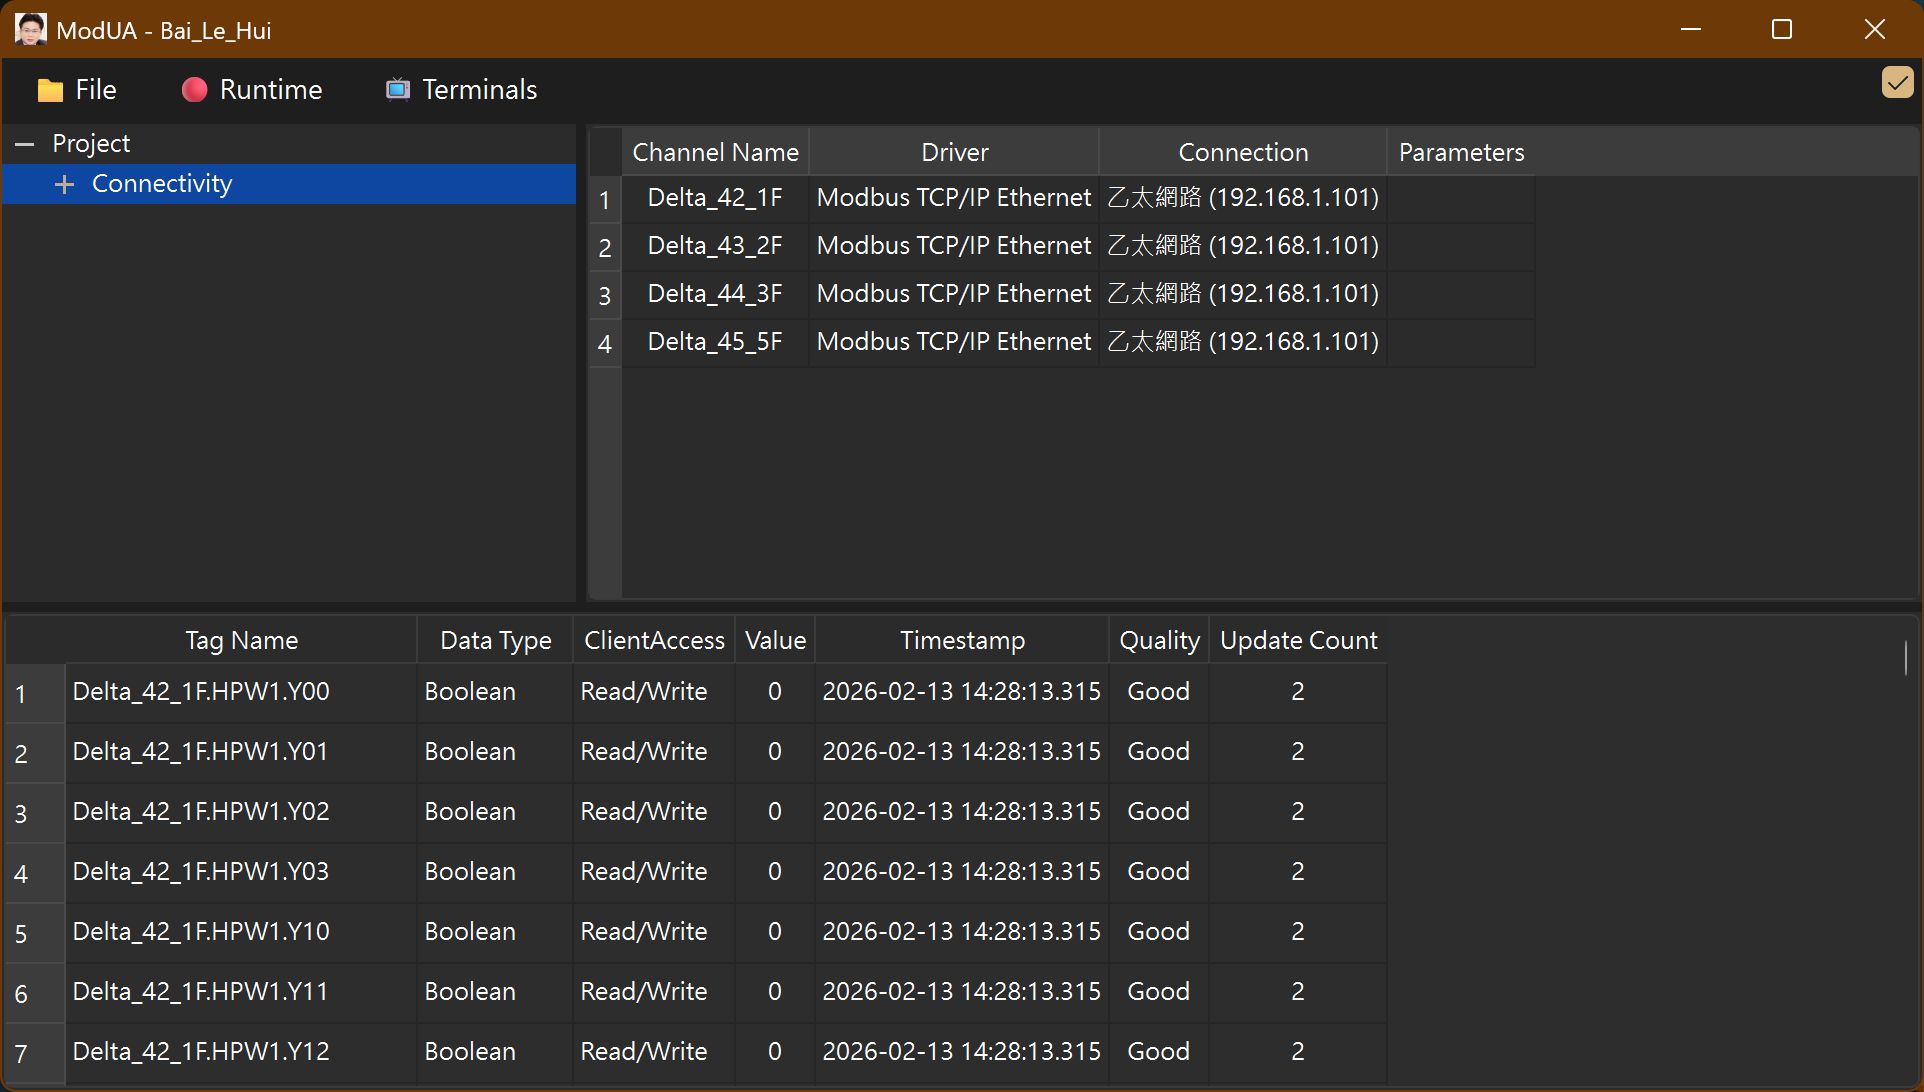
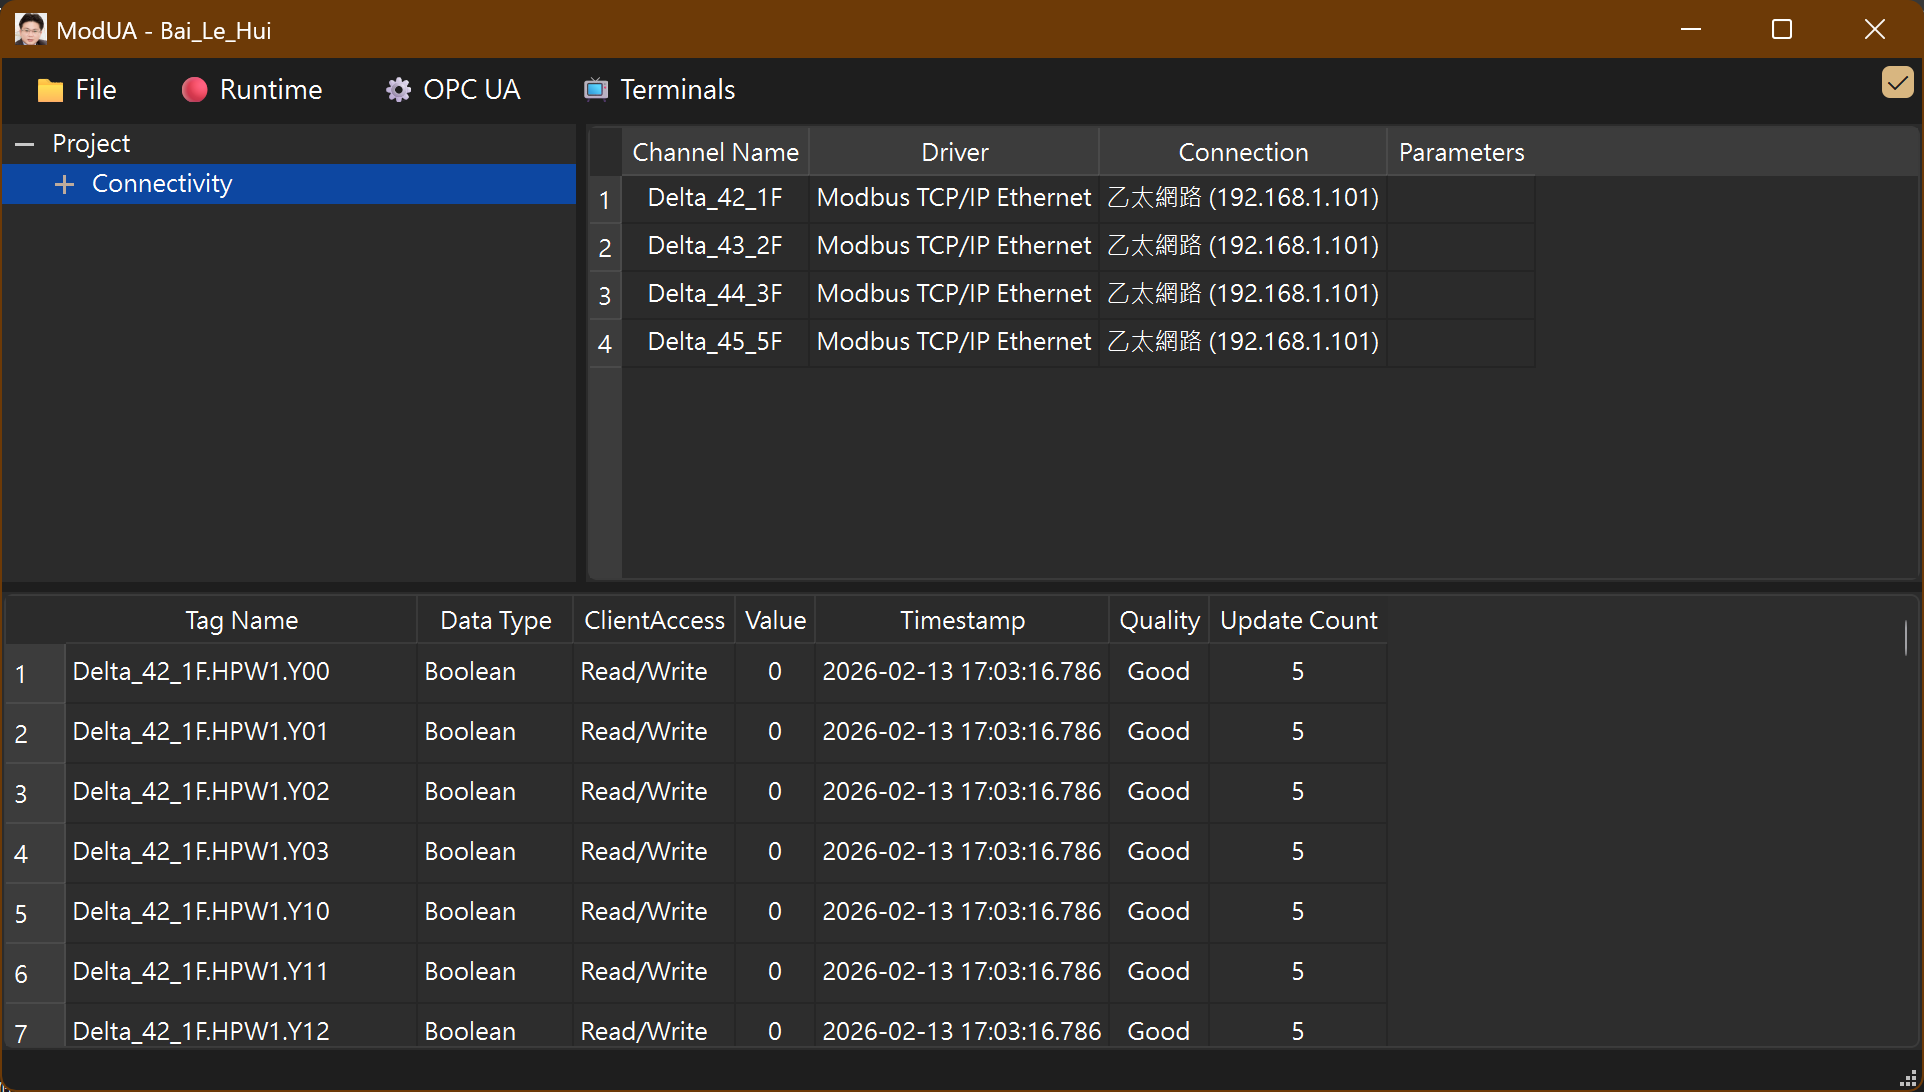
Update ModUA.py, opcua_server.py, and Main UI.png

diff --git a/ModUA.py b/ModUA.py
@@ -340,10 +340,16 @@ class IoTApp(QMainWindow):
         open_action.triggered.connect(self.open_project)
         save_action.triggered.connect(self.save_project)
         save_as_action.triggered.connect(self.save_project_as)
+        
         runtime_indicator = QAction("🟢 Runtime", self)
         runtime_indicator.triggered.connect(self.toggle_runtime)
         self.menuBar().addAction(runtime_indicator)
         self.runtime_indicator_action = runtime_indicator
+        
+        # OPC UA 設定選項：放在 Runtime 和 Terminals 之間
+        opcua_config_action = QAction("⚙ OPC UA", self)
+        opcua_config_action.triggered.connect(self.open_opcua_settings)
+        self.menuBar().addAction(opcua_config_action)
         
         # 在選單欄右側添加自動啟動runtime的核取方塊
         self.auto_start_runtime_checkbox = QCheckBox()
@@ -1045,35 +1051,75 @@ class IoTApp(QMainWindow):
                 try:
                     # Check if the port is really available before starting
                     port = int(flat.get("port", nested.get("opcua_settings", {}).get("general", {}).get("port", 4848)))
+                    opc_logger.info(f"[OPC_STARTUP] Checking if port {port} is available...")
                     if not IoTApp.is_port_really_available(port):
                         error_msg = f"Port {port} is blocked by system or reserved, cannot start OPC UA server. Please choose a different port."
                         opc_logger.error(error_msg)
                         self.opc_error_occurred.emit("OPC UA 啟動失敗", error_msg)
                         return
 
-                    opc_logger.info("Starting OPC UA server...")
+                    opc_logger.info(f"[OPC_STARTUP] Port {port} is available, starting OPC UA server...")
+                    import time as time_module
+                    start_time = time_module.time()
                     self.opc_server.start_server()
+                    opc_logger.info("[OPC_STARTUP] Server start_server() called, waiting for is_running flag...")
 
                     # Wait for server to be ready
-                    # Increased timeout for Windows port release
-                    max_wait = 5
+                    # ✅ ASYNC CERTIFICATE GENERATION: Runs in thread pool, doesn't block event loop
+                    # Most cases should complete in 2-5 seconds:
+                    # - Cached certificate: < 1s
+                    # - First-run cert generation: ~15-20s in thread pool (doesn't freeze UI/event loop)
+                    # - server.init(): ~1-2s
+                    # - server.start(): ~0.5-1s
+                    # Timeout set to 10s for stability (vs 20s before, still much better)
+                    max_wait = 10
                     waited = 0
                     poll_interval = 0.1
+                    check_count = 0
 
                     while not self.opc_server.is_running and waited < max_wait:
                         time.sleep(poll_interval)
                         waited += poll_interval
+                        check_count += 1
+                        
+                        # Log every 1 second
+                        if check_count % 10 == 0:
+                            # Check server thread status
+                            thread_alive = self.opc_server.server_thread and self.opc_server.server_thread.is_alive()
+                            opc_logger.debug(f"[OPC_STARTUP] Waiting... {waited:.1f}s, is_running={self.opc_server.is_running}, thread_alive={thread_alive}")
 
                     if not self.opc_server.is_running:
-                        error_msg = (
-                            f"OPC UA server initialization timeout (waited {waited}s)"
-                        )
-                        opc_logger.error(error_msg)
-                        # 发射信号通知 UI 线程显示错误
-                        self.opc_error_occurred.emit("OPC UA 啟動失敗", error_msg)
+                        # ✅ Check if there's a stored server error
+                        server_error = getattr(self.opc_server, '_server_error', None)
+                        thread_alive = self.opc_server.server_thread and self.opc_server.server_thread.is_alive()
+                        
+                        if server_error:
+                            # There's a specific error from the server thread
+                            error_msg = f"OPC UA server initialization failed: {server_error}"
+                            opc_logger.error(error_msg)
+                            self.opc_error_occurred.emit("OPC UA 啟動失敗", error_msg)
+                        elif not thread_alive:
+                            # Thread died without is_running being set
+                            error_msg = (
+                                f"OPC UA server thread died unexpectedly (waited {waited:.1f}s). "
+                                f"Check the log for exceptions during initialization."
+                            )
+                            opc_logger.error(error_msg)
+                            self.opc_error_occurred.emit("OPC UA 啟動失敗", error_msg)
+                        else:
+                            # Thread is still alive but hasn't set is_running yet
+                            error_msg = (
+                                f"OPC UA server initialization timeout (waited {waited:.1f}s). "
+                                f"Server thread is still running but not responding. "
+                                f"This could indicate a deadlock or very slow initialization. "
+                                f"Check the log for diagnostic messages."
+                            )
+                            opc_logger.error(error_msg)
+                            self.opc_error_occurred.emit("OPC UA 啟動失敗", error_msg)
                         return
 
-                    opc_logger.info("OPC UA server is running, loading tags...")
+                    elapsed_time = time_module.time() - start_time
+                    opc_logger.info(f"[OPC_STARTUP] ✓ OPC UA server is running! (took {elapsed_time:.2f}s), loading tags...")
 
                     # Server is ready, load tags
                     if self.opc_server:
@@ -1084,6 +1130,11 @@ class IoTApp(QMainWindow):
                             self.update_status_message.emit(
                                 "OPC UA Server 已啟動並重新加載標籤", 3000
                             )
+                            
+                            # ✅ 檢查是否需要自動啟動 Runtime（在 OPC UA 完成初始化後）
+                            if getattr(self, '_auto_start_runtime_on_startup', False):
+                                logging.info("Auto-starting Runtime now that OPC UA is ready...")
+                                QTimer.singleShot(500, self.start_runtime_polling)  # 短延遲確保 UI 響應
                             
                             # ✅ 如果 Runtime 已經在運行，啟動 OPC 同步 timer
                             if getattr(self, "_runtime_running", False):
@@ -5253,6 +5304,7 @@ class IoTApp(QMainWindow):
     def load_app_settings(self):
         """加載應用程序設置"""
         try:
+            auto_start = False
             if os.path.exists(self._settings_file):
                 with open(self._settings_file, 'r', encoding='utf-8') as f:
                     settings = json.load(f)
@@ -5284,12 +5336,14 @@ class IoTApp(QMainWindow):
                 if args.minimized:
                     QTimer.singleShot(500, lambda: self.setWindowState(Qt.WindowState.WindowMinimized))
             
-            # 如果設置了自動啟動且沒有運行，則啟動runtime
-            if auto_start and not getattr(self, '_runtime_running', False):
-                QTimer.singleShot(1000, self.start_runtime_polling)  # 延遲1秒啟動
-                
+            # ✅ 保存自動啟動狀態，讓 OPC UA 初始化完成後使用
+            self._auto_start_runtime_on_startup = auto_start and not getattr(self, '_runtime_running', False)
+            
         except Exception as e:
             logging.warning(f"Failed to load app settings: {e}")
+            # 降級：直接啟動 Runtime（不等待 OPC UA）
+            logging.warning("Falling back to direct Runtime start...")
+            self.start_runtime_polling()
 
     def save_app_settings(self):
         """保存應用程序設置"""

diff --git a/core/OPC_UA/opcua_server.py b/core/OPC_UA/opcua_server.py
@@ -789,6 +789,38 @@ class OPCUAServer:
 
         return cert_path, key_path
 
+    async def _generate_server_certificate_async(self, app_name: str, host: str, port: int) -> tuple:
+        """🔄 Async wrapper for certificate generation - offloads CPU-intensive work to thread pool.
+        
+        CRITICAL: RSA key generation is CPU-intensive and would block the event loop for 15-20 seconds!
+        This async wrapper uses loop.run_in_executor() to run the sync certificate generation in a
+        background thread pool, allowing the event loop to remain responsive.
+
+        Args:
+            app_name: Application name for the certificate
+            host: Server host/IP address
+            port: Server port
+
+        Returns:
+            Tuple of (cert_path, key_path) if successful, (None, None) otherwise
+        """
+        try:
+            import time as time_module
+            logger.debug(f"[OPC_STARTUP] Async cert generation starting in thread pool...")
+            start_time = time_module.time()
+            
+            loop = asyncio.get_event_loop()
+            cert_path, key_path = await loop.run_in_executor(
+                None, self._generate_server_certificate, app_name, host, port
+            )
+            
+            elapsed = time_module.time() - start_time
+            logger.debug(f"[OPC_STARTUP] Async cert generation completed in {elapsed:.2f}s")
+            return cert_path, key_path
+        except Exception as e:
+            logger.error(f"Async certificate generation failed: {e}", exc_info=True)
+            return None, None
+
     def _generate_server_certificate(self, app_name: str, host: str, port: int) -> tuple:
         """Generate a self-signed server certificate for OPC UA.
 
@@ -991,18 +1023,21 @@ class OPCUAServer:
             asyncio.set_event_loop(self.loop)
             self._stop_event = asyncio.Event()
 
-            # ✅ Run cleanup delay inside event loop (async sleep)
-            # This allows the event loop to remain responsive
+            # ✅ Run cleanup and server initialization inside event loop
+            # The sleep is for proper cleanup of any previous connections
             async def startup_with_cleanup():
-                logger.debug("Waiting for cleanup before starting server...")
-                await asyncio.sleep(2)  # ✅ Non-blocking sleep in event loop
+                import time as time_module
+                logger.debug("[OPC_STARTUP] Starting up OPC UA server with cleanup...")
+                await asyncio.sleep(0.5)  # ✅ Reduced from 2s to 0.5s - shorter cleanup window
+                logger.debug("[OPC_STARTUP] Cleanup complete, initializing server...")
                 await self._start_server_async(host, port)
                 # ✅ Update heartbeat after successful startup
                 self._last_heartbeat = time.time()
+                logger.debug("[OPC_STARTUP] Server startup coroutine completed")
 
             # Run the async server start with cleanup delay
             logger.info(
-                f"Starting OPC UA async server on {host}:{port} in event loop..."
+                f"[OPC_STARTUP] Starting OPC UA async server on {host}:{port} in event loop..."
             )
             self.loop.run_until_complete(startup_with_cleanup())
 
@@ -1100,10 +1135,14 @@ class OPCUAServer:
 
             # ✅ Load or generate server certificate if needed for secure endpoints
             if self._needs_certificate(policies):
+                import time as time_module
                 logger.info("Secure endpoints requested, setting up server certificate...")
-                cert_path, key_path = self._generate_server_certificate(
+                init_start = time_module.time()
+                cert_path, key_path = await self._generate_server_certificate_async(
                     config["app_name"], host, port
                 )
+                init_time = time_module.time() - init_start
+                logger.debug(f"[OPC_STARTUP] Certificate setup took {init_time:.2f}s")
                 if cert_path and key_path and cert_path.exists() and key_path.exists():
                     await self.server.load_certificate(str(cert_path))
                     await self.server.load_private_key(str(key_path))
@@ -1119,7 +1158,12 @@ class OPCUAServer:
                 logger.info("Only NoSecurity policy enabled, no certificate required")
 
             # Initialize server (this creates endpoints based on security settings)
+            import time as time_module
+            logger.debug("[OPC_STARTUP] Calling server.init()...")
+            init_start = time_module.time()
             await self.server.init()
+            init_time = time_module.time() - init_start
+            logger.debug(f"[OPC_STARTUP] server.init() completed in {init_time:.2f}s")
 
             # ✅ Install write interceptor to capture client writes
             await self._install_write_interceptor()
@@ -1129,9 +1173,17 @@ class OPCUAServer:
             logger.info("OPC UA Certificate validator configured")
 
             # Start server
-            logger.debug(f"Starting server on {endpoint}...")
+            import time as time_module
+            logger.debug(f"[OPC_STARTUP] Calling server.start()...")
+            start_start = time_module.time()
             await self.server.start()
+            start_time = time_module.time() - start_start
+            logger.debug(f"[OPC_STARTUP] server.start() completed in {start_time:.2f}s")
+            
+            # ✅ Set is_running flag BEFORE logging (in case logging fails)
             self.is_running = True
+            self._server_error = None  # Clear any previous errors
+            logger.info(f"[OPC_STARTUP] ✅ OPC UA Server is_running={self.is_running}, ready to accept connections")
 
             # Log available endpoints
             try:
@@ -1501,9 +1553,9 @@ class OPCUAServer:
             # Wait for thread to finish (with timeout)
             if self.server_thread and self.server_thread.is_alive():
                 logger.debug("Waiting for server thread to finish...")
-                self.server_thread.join(timeout=5)
+                self.server_thread.join(timeout=8)  # ✅ Increased from 5s to 8s for better cleanup
                 if self.server_thread.is_alive():
-                    logger.warning("Server thread did not finish within timeout")
+                    logger.warning("Server thread did not finish within 8s timeout")
 
             # Force cleanup references
             try:
@@ -1525,6 +1577,9 @@ class OPCUAServer:
             # Clean up loop
             try:
                 if self.loop:
+                    # ✅ Add small delay to allow Windows socket to fully release
+                    import time
+                    time.sleep(0.1)  # 100ms delay for socket cleanup
                     self.loop = None
             except:
                 pass
